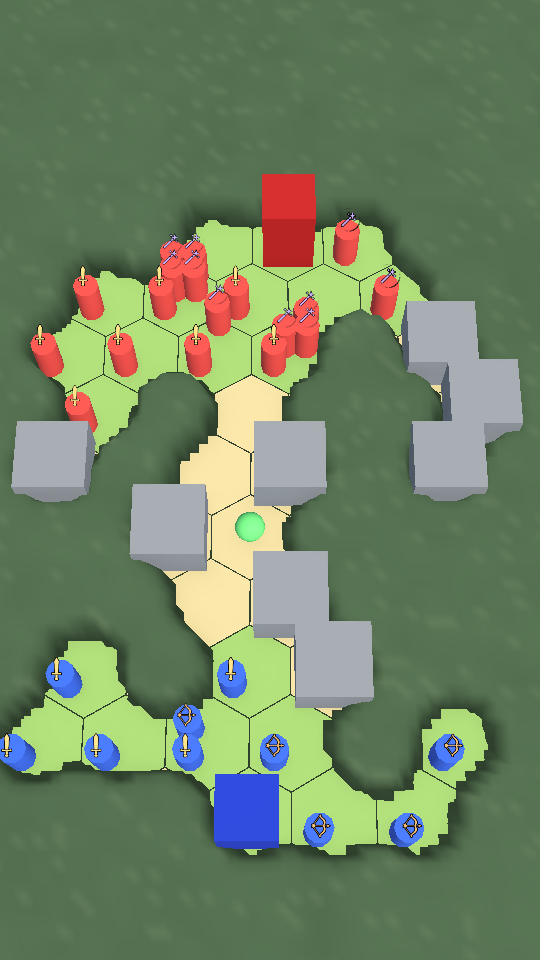
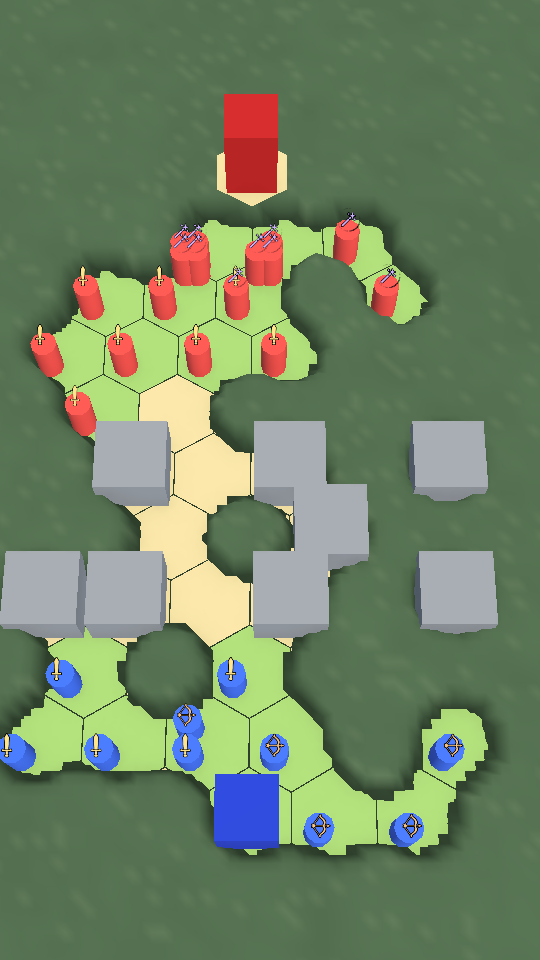
Bush Rush: драка боец-на-бойца (выпады по очереди, вздрагивание), красный герой за верхним краем на площадке; BALANCE §5

Changed region(s): [[0.0, 0.0938, 0.9778, 0.7812], [0.7407, 0.5625, 0.9185, 0.6875]]

diff --git a/unity/Assets/Warbands/Scripts/Runtime/Field3D.cs b/unity/Assets/Warbands/Scripts/Runtime/Field3D.cs
@@ -62,8 +62,9 @@ namespace Warbands
             public Vector3 HeadPos => Centroid + Vector3.up * (Unit != null && Unit.IsHero ? 1.5f : 1.0f);   // бойцы ×4 (14.09)
         }
         public sealed class FigJob { public Transform Fig; public Vector3 From; public List<Vector3> Path; public float Start, End; }
-        public sealed class Lunge { public Transform Fig; public Vector3 From, To; public float Start; }   // выпад к врагу и назад (0.44 с)
+        public sealed class Lunge { public Transform Fig, Target; public Vector3 From, To; public float Start; public bool Flinched; }   // выпад бойца к своему противнику и назад (0.44 с); на полпути противник вздрагивает
         readonly List<Lunge> lunges = new List<Lunge>();
+        readonly List<(Transform fig, Vector3 scale, float start)> flinches = new List<(Transform, Vector3, float)>();   // вздрагивание побитого бойца (0.24 с)
         readonly List<(Transform t, float born)> splats = new List<(Transform, float)>();   // кляксы на земле, тают за 8 с
         Mesh quadMesh; Texture2D splatTex;
         readonly Dictionary<Transform, Transform> icons = new Dictionary<Transform, Transform>();   // значок класса над бойцом
@@ -93,6 +94,13 @@ namespace Warbands
                 bushScale[i] = bushTarget[i] = 1f;   // уровень травы гекса (1 — заросло), из него строится мягкий ковёр (GrassCarpet)
                 var o = Prim("Obstacle", boxMesh, assets.obstacle, tilesRoot); o.localPosition = p + Vector3.up * 0.35f; o.localScale = new Vector3(0.9f, 0.7f, 0.9f); o.gameObject.SetActive(false); obstacles[i] = o;
                 var bn = Prim("Bonus", sphereMesh, assets.gold, tilesRoot); bn.localPosition = p + Vector3.up * 0.4f; bn.localScale = Vector3.one * 0.38f; bn.gameObject.SetActive(false); bonuses[i] = bn;
+            }
+            // площадка героя за краем поля (автор 14.09): песчаный гекс поверх травы под гексом героя вне сетки
+            for (int side = 0; side < 2; side++)
+            {
+                var hc = BushGrid.HeroCell(side); if (BushGrid.Inside(hc)) continue;
+                var pod = new GameObject("HeroPodium", typeof(MeshFilter), typeof(MeshRenderer)); pod.transform.SetParent(tilesRoot, false); pod.transform.localPosition = CellPos(hc) + Vector3.up * PodiumY;
+                pod.GetComponent<MeshFilter>().sharedMesh = hexMesh; var pm = pod.GetComponent<MeshRenderer>(); pm.sharedMaterial = assets.sand; pm.shadowCastingMode = UnityEngine.Rendering.ShadowCastingMode.Off; Tint(pm, assets.sand);
             }
             // трава (автор 14.09): мягкий сплошной ковёр с текстурой — сетка высот по уровням гексов, края плавные, свет запечён в вершины
             carpet = new GrassCarpet(root, assets.grassSoft, bushScale, reachMask);
@@ -164,7 +172,7 @@ namespace Warbands
                 SetBonus(c, b.Bushes.BonusAt(c), !bush);
                 Retint(i);
             }
-            foreach (var v in views) Destroy(v.Root.gameObject); views.Clear(); foreach (var kv in icons) Destroy(kv.Value.gameObject); icons.Clear(); foreach (var sp in splats) Destroy(sp.t.gameObject); splats.Clear(); lunges.Clear();
+            foreach (var v in views) Destroy(v.Root.gameObject); views.Clear(); foreach (var kv in icons) Destroy(kv.Value.gameObject); icons.Clear(); foreach (var sp in splats) Destroy(sp.t.gameObject); splats.Clear(); lunges.Clear(); flinches.Clear();
             foreach (var sd in b.Sides)
             {
                 foreach (var q in sd.Squads) views.Add(BuildUnit(q));
@@ -182,6 +190,8 @@ namespace Warbands
         }
         /// Слоты 2×2 в гексе (автор 14.09: бойцы ×4, до 4 в гексе); когда в гексе есть и враг, свои жмутся к своему краю (игрок — вниз), враг — к своему.
         public const float FigY = 0.35f;   // центр цилиндра высотой 0.64 над землёй
+        public const float PodiumY = GrassH * 1.15f + 0.02f;   // площадка героя вне сетки — поверх травы
+        static Vector3 HeroPos(Cell c) => CellPos(c) + Vector3.up * (BushGrid.Inside(c) ? 0.6f : PodiumY + 0.6f);
         static Vector3 SlotOffset(int slot, int side, bool mixed)
         {
             float x = (slot & 1) == 0 ? -0.2f : 0.2f, z = (slot & 2) == 0 ? -0.17f : 0.17f;
@@ -229,7 +239,7 @@ namespace Warbands
             {
                 bool active = i < n; if (v.Figs[i].gameObject.activeSelf != active) v.Figs[i].gameObject.SetActive(active); if (!active) continue;
                 bool running = false; foreach (var j in v.Jobs) if (j.Fig == v.Figs[i]) { running = true; break; }
-                if (!running) v.Figs[i].position = u.IsHero ? CellPos(u.Cell) + new Vector3(0f, 0.6f, 0f) : FigWorld(v, i);
+                if (!running) v.Figs[i].position = u.IsHero ? HeroPos(u.Cell) : FigWorld(v, i);
                 sum += v.Figs[i].position; on++;
             }
             v.Centroid = on > 0 ? sum / on : CellPos(u.Cell);
@@ -376,20 +386,26 @@ namespace Warbands
                     case EventType.BonusTaken: { var cells = BushGrid.Decode(e.Text); timed.Add((moveEnd, () => { foreach (var c in cells) SetBonus(c, BonusKind.None, false); })); break; }
                     case EventType.DamageApplied: case EventType.HealApplied:
                         {
-                            var tv = View(e.Target); var src = View(e.Actor); float at = moveEnd + 0.35f * k; bool heal = e.Type == EventType.HealApplied;
-                            timed.Add((at - 0.22f * k, () => { if (!heal && src != null && tv != null) LungeAt(src, tv); }));   // выпад к врагу
+                            // драка боец-на-бойца (автор 14.09: «не надо всех одновременно дёргать»): каждый боец атакующего отряда по очереди делает выпад
+                            // к ближайшему противнику, тот вздрагивает; HP, павшие и цифра урона — после последнего выпада
+                            var tv = View(e.Target); var src = View(e.Actor); bool heal = e.Type == EventType.HealApplied;
+                            int strikers = 0; if (!heal && src != null) foreach (var f in src.Figs) if (f.gameObject.activeSelf) strikers++;
+                            float step = strikers > 0 ? Mathf.Clamp(0.9f / strikers, 0.07f, 0.16f) * k : 0f; float start = moveEnd + 0.15f * k;
+                            float at = start + (strikers > 0 ? (strikers - 1) * step + 0.24f * k : 0.35f * k);
+                            if (strikers > 0) timed.Add((start, () => { if (src != null && tv != null) Strikes(src, tv, step / k); }));
                             timed.Add((at, () =>
                             {
                                 if (tv != null && tv.Unit != null)
                                 {
                                     var before = new List<Vector3>(); foreach (var f in tv.Figs) if (f.gameObject.activeSelf) before.Add(f.position);
-                                    tv.ShownHp = tv.Unit.Hp; tv.Punch = 1f; LayoutFigs(tv);
+                                    tv.ShownHp = tv.Unit.Hp; MatchFigs(tv); LayoutFigs(tv);
                                     int after = 0; foreach (var f in tv.Figs) if (f.gameObject.activeSelf) after++;
-                                    if (!heal && !tv.Unit.IsHero) for (int i = after; i < before.Count; i++) Splat(before[i], tv.Unit.Side);   // павшие — кляксы
+                                    if (!heal && !tv.Unit.IsHero) for (int i = after; i < before.Count; i++) Splat(before[i], tv.Unit.Side);   // павшие — кляксы там, где стояли побитые
+                                    if (tv.Unit.IsHero && !heal) Flinch(tv.Figs[0]);
                                 }
-                                if (src != null) src.Punch = 0.6f; Hit?.Invoke(e);
+                                Hit?.Invoke(e);
                             }));
-                            t = Mathf.Max(t, at + 0.5f * k);
+                            t = Mathf.Max(t, at + 0.35f * k);
                             break;
                         }
                     case EventType.SquadDefeated: { var tv = View(e.Target); float at = moveEnd + 0.7f * k; timed.Add((at, () => { if (tv != null) { tv.ShownHp = 0; LayoutFigs(tv); tv.Root.gameObject.SetActive(false); } })); break; }
@@ -401,17 +417,42 @@ namespace Warbands
             timed.Add((t + 0.05f, () => { var bb = runner.Battle; if (bb != null) { SetPending(PendingRegrow(bb)); foreach (var v in views) if (v.Unit != null && v.Unit.Alive) v.ShownHp = v.Unit.Hp; } }));
         }
         /// Выпад: каждый боец атакующего, у кого рядом (≤ 1.2) есть боец цели, дёргается к ближайшему и обратно; толпы смешиваются.
-        void LungeAt(UnitView src, UnitView tv)
+        /// Выпады по очереди: боец k атакующего отряда через k·step секунд делает выпад к ближайшему бойцу цели (ближники — почти вплотную,
+        /// стрелки издалека — короткий «толчок» в сторону цели); ближние к врагу бьют первыми.
+        void Strikes(UnitView src, UnitView tv, float step)
         {
-            var targets = new List<Vector3>(); foreach (var f in tv.Figs) if (f.gameObject.activeSelf) targets.Add(f.position);
+            var targets = new List<Transform>(); foreach (var f in tv.Figs) if (f.gameObject.activeSelf) targets.Add(f);
             if (targets.Count == 0) return;
+            var order = new List<(Transform f, Transform t, float d)>();
             foreach (var f in src.Figs)
             {
-                if (!f.gameObject.activeSelf) continue; Vector3 best = targets[0]; float bd = float.MaxValue;
-                foreach (var p in targets) { float d = (p - f.position).sqrMagnitude; if (d < bd) { bd = d; best = p; } }
-                if (bd > 1.44f) continue;
-                lunges.Add(new Lunge { Fig = f, From = f.position, To = Vector3.Lerp(f.position, best, 0.7f), Start = Time.unscaledTime });
+                if (!f.gameObject.activeSelf) continue; Transform best = targets[0]; float bd = float.MaxValue;
+                foreach (var p in targets) { float d = (p.position - f.position).sqrMagnitude; if (d < bd) { bd = d; best = p; } }
+                order.Add((f, best, bd));
             }
+            order.Sort((a, b) => a.d.CompareTo(b.d));
+            float now = Time.unscaledTime;
+            for (int k = 0; k < order.Count; k++)
+            {
+                var (f, tg, d) = order[k]; var dir = tg.position - f.position; dir.y = 0f; float len = dir.magnitude;
+                var to = len <= 1.2f ? Vector3.Lerp(f.position, new Vector3(tg.position.x, f.position.y, tg.position.z), 0.7f) : f.position + dir / Mathf.Max(len, 1e-3f) * 0.22f;
+                lunges.Add(new Lunge { Fig = f, Target = tg, From = f.position, To = to, Start = now + k * step });
+            }
+        }
+        void Flinch(Transform fig) { foreach (var fl in flinches) if (fl.fig == fig) return; flinches.Add((fig, fig.localScale, Time.unscaledTime)); }
+        /// Перед раскладкой после урона: Figs[i] ↔ Fighters[i] по ближайшей позиции, чтобы павшими (лишними) остались фигурки, стоявшие там, где бойцов не стало.
+        void MatchFigs(UnitView v)
+        {
+            var u = v.Unit; if (u == null || u.IsHero || u.Fighters == null) return;
+            var free = new List<Transform>(); foreach (var f in v.Figs) if (f.gameObject.activeSelf) free.Add(f); var inactive = new List<Transform>(); foreach (var f in v.Figs) if (!f.gameObject.activeSelf) inactive.Add(f);
+            var ordered = new List<Transform>();
+            for (int i = 0; i < u.Fighters.Count && free.Count > 0; i++)
+            {
+                var p = CellPos(u.Fighters[i]); Transform pick = null; float bd = float.MaxValue;
+                foreach (var f in free) { float d = (f.position - p).sqrMagnitude; if (d < bd) { bd = d; pick = f; } }
+                free.Remove(pick); ordered.Add(pick);
+            }
+            ordered.AddRange(free); ordered.AddRange(inactive); v.Figs.Clear(); v.Figs.AddRange(ordered);
         }
         /// Попадание/лечение показано (для всплывающих чисел в HUD).
         public event System.Action<CombatEvent> Hit;
@@ -451,9 +492,16 @@ namespace Warbands
             foreach (var bn in bonuses) if (bn.gameObject.activeSelf) bn.localRotation = Quaternion.Euler(0f, now * 90f, 0f);
             for (int i = lunges.Count - 1; i >= 0; i--)
             {
-                var l = lunges[i]; float u = (now - l.Start) / 0.44f;
+                var l = lunges[i]; float u = (now - l.Start) / 0.44f; if (u < 0f) continue;   // ещё ждёт своей очереди
                 if (u >= 1f) { l.Fig.position = l.From; lunges.RemoveAt(i); continue; }
                 float k2 = Mathf.Sin(u * Mathf.PI); l.Fig.position = Vector3.Lerp(l.From, l.To, k2) + Vector3.up * 0.06f * k2;
+                if (!l.Flinched && u >= 0.5f) { l.Flinched = true; if (l.Target != null && l.Target.gameObject.activeSelf) Flinch(l.Target); }
+            }
+            for (int i = flinches.Count - 1; i >= 0; i--)
+            {
+                var fl = flinches[i]; float u = (now - fl.start) / 0.24f;
+                if (u >= 1f || fl.fig == null) { if (fl.fig != null) fl.fig.localScale = fl.scale; flinches.RemoveAt(i); continue; }
+                float s2 = Mathf.Sin(u * Mathf.PI); fl.fig.localScale = new Vector3(fl.scale.x * (1f + 0.35f * s2), fl.scale.y * (1f - 0.22f * s2), fl.scale.z * (1f + 0.35f * s2));
             }
             for (int i = splats.Count - 1; i >= 0; i--)
             {

diff --git a/unity/Assets/Warbands/Scripts/Sim/BushField.cs b/unity/Assets/Warbands/Scripts/Sim/BushField.cs
@@ -74,8 +74,9 @@ namespace Warbands.Sim
             return new Cell(col, y);
         }
 
-        /// Гекс героя (Bush Rush, автор 14.09): по центру своего края — игрок снизу (2, Rows-1), враг сверху (3, 0); нечётная строка сдвинута на полгекса, так что оба у середины поля.
-        public static Cell HeroCell(int side) => side == 0 ? new Cell(Cols / 2 - 1, Rows - 1) : new Cell(Cols / 2, 0);
+        /// Гекс героя (Bush Rush, автор 14.09): игрок снизу (2, Rows-1) на поле; враг — за верхним краем, на «площадке» (2, -1) (автор 14.09: «переставь красного героя сюда»).
+        /// Гекс вне сетки: соседство/дистанции считаются как обычно (кубовые координаты), бойцы туда не ступают (Passable требует Inside), бьют с (2,0) и (3,0).
+        public static Cell HeroCell(int side) => side == 0 ? new Cell(Cols / 2 - 1, Rows - 1) : new Cell(Cols / 2 - 1, -1);
 
         public static string Encode(IList<Cell> cells) { if (cells == null) return ""; var sb = new System.Text.StringBuilder(); for (int i = 0; i < cells.Count; i++) { if (i > 0) sb.Append(';'); sb.Append(cells[i].X).Append(',').Append(cells[i].Y); } return sb.ToString(); }
         public static List<Cell> Decode(string s)

diff --git a/unity/Assets/Warbands/Scripts/Sim/BushLogic.cs b/unity/Assets/Warbands/Scripts/Sim/BushLogic.cs
@@ -589,7 +589,7 @@ namespace Warbands.Sim
         {
             var b = s.Bushes; if (b == null) return;
             int nObs = s.Cfg.bushObstacles, nBon = s.Cfg.bushBonuses;
-            var units = new List<Cell>(); foreach (var sd in s.Sides) { foreach (var q in sd.Squads) if (q.Alive) { units.Add(q.Cell); if (s.Cfg.rushMode && q.Fighters != null) foreach (var f in q.Fighters) if (!units.Contains(f)) units.Add(f); } if (s.Cfg.rushMode && sd.Hero != null) units.Add(sd.Hero.Cell); }   // Bush Rush: лагерь бойцов тоже без препятствий
+            var units = new List<Cell>(); foreach (var sd in s.Sides) { foreach (var q in sd.Squads) if (q.Alive) { units.Add(q.Cell); if (s.Cfg.rushMode && q.Fighters != null) foreach (var f in q.Fighters) if (!units.Contains(f)) units.Add(f); } if (s.Cfg.rushMode && sd.Hero != null && BushGrid.Inside(sd.Hero.Cell)) units.Add(sd.Hero.Cell); }   // Bush Rush: лагерь бойцов тоже без препятствий; герой за краем в связность не входит
             for (int attempt = 0; attempt < 40 && nObs > 0; attempt++)
             {
                 var obs = new HashSet<Cell>();

diff --git a/unity/Assets/Warbands/Scripts/Tests/RushTests.cs b/unity/Assets/Warbands/Scripts/Tests/RushTests.cs
@@ -18,7 +18,8 @@ namespace Warbands.Tests
         {
             var s = New();
             Assert.AreEqual(BushGrid.HeroCell(0), s.Sides[0].Hero.Cell); Assert.AreEqual(BushGrid.HeroCell(1), s.Sides[1].Hero.Cell);
-            Assert.AreEqual(BushGrid.Rows - 1, s.Sides[0].Hero.Cell.Y); Assert.AreEqual(0, s.Sides[1].Hero.Cell.Y);
+            Assert.AreEqual(BushGrid.Rows - 1, s.Sides[0].Hero.Cell.Y); Assert.AreEqual(-1, s.Sides[1].Hero.Cell.Y, "красный герой за верхним краем (автор 14.09)");
+            Assert.IsTrue(BushGrid.Adjacent(s.Sides[1].Hero.Cell, new Cell(2, 0)) && BushGrid.Adjacent(s.Sides[1].Hero.Cell, new Cell(3, 0)), "к герою за краем подходят с (2,0) и (3,0)");
             foreach (var sd in s.Sides) foreach (var q in sd.Squads)
             {
                 Assert.AreEqual(q.Count, q.Fighters.Count, "по бойцу на живого: " + q.Name);

diff --git a/GDD.md b/GDD.md
@@ -4,7 +4,7 @@
 
 ## Поле
 - 6×10 гексов (pointy-top, нечётные строки сдвинуты вправо на полгекса), кусты везде, кроме гексов под отрядами и героями. Препятствия (серые блоки, не пройти и не стереть) и бонусы (×2 бойцов, +100 HP; спрятаны под травой, видны на расчищенном) — как в Warbands: 5 препятствий, 5 бонусов на старте, до 6, перегенерация раз в 2 хода.
-- **Герои на поле**: игрок — гекс (2, 9) внизу по центру, враг — (3, 0) вверху по центру (камера круче — герой врага под верхней полоской HUD, автор 14.09). Герой не ходит, занимает гекс (стена для всех), у него HP из карты (Aldren 600, Varka 440, Ilyra 380, Morthane 320).
+- **Герои на поле**: игрок — гекс (2, 9) внизу по центру, враг — (2, −1) за верхним краем на песчаной площадке поверх травы (автор 14.09: «переставь сюда»; бойцы бьют его с (2,0) и (3,0)) (камера круче — герой врага под верхней полоской HUD, автор 14.09). Герой не ходит, занимает гекс (стена для всех), у него HP из карты (Aldren 600, Varka 440, Ilyra 380, Morthane 320).
 - Отряды: игрок — фронт строка 7, тыл 8; враг — фронт 2, тыл 1. Между фронтами четыре строки кустов.
 
 ## Ход
@@ -14,7 +14,7 @@
 - Ближник останавливается у первого встречного врага (боец или герой) и бьёт его; герой в приоритете. Дальник бежит, пока кто-то из врагов не окажется в рейндже, и стреляет — в героя, если достаёт, иначе в ближайшего. Урон отряда делится по бойцам: бьющие N из живых дают N/живых от урона отряда, по каждой цели суммируется одним ударом. Cabal бьёт всех в рейндже каждого бойца. У каждого бойца своё HP (сумма = HP отряда, полоски бойцов не показываем): урон снимается с бойцов, ближайших к атакующему, боец с нулём падает (клякса на земле); лечение — раненым, остаток — новыми бойцами рядом. Бонусы подбирают все, кто пробежал по гексу бонуса. Вражеские бойцы не преграда — ближники врезаются в толпу и дерутся вперемешку в одном гексе (автор 14.09, реф Castle Raid); стена — только гекс героя.
 - Отхода после удара нет — давим вперёд.
 - Скорости: ближники 5, Veil Knives 6, дальники 3 (предложение под поле 6×10; в Warbands 7/8/4). Рейнджи: Arbalists 4, остальные дальники 3, ближники — соседний гекс.
-- Ульта героя — свободное действие в ход своего отряда, цена 40 душ (Мортейн 60; 14.09: бойцов ×2 → душ ×2), души капают за потерянных бойцов.
+- Ульта героя — свободное действие в ход своего отряда, цена 20 душ (Мортейн 30), души капают за потерянных бойцов.
 
 ## Конец боя
 - **Только смерть героя** (гибель всех отрядов бой не заканчивает — герой стоит один). Лимит 30 раундов — счёт по HP.

diff --git a/ROADMAP.md b/ROADMAP.md
@@ -27,4 +27,5 @@
 - 14.09: прогон лавины — BALANCE §3 (13–86, лимитов 0 %), как §2.
 - 14.09: **откат лавины** (автор: «нет, юнитов разнеси на несколько гексов, размер ×4, до 4 на гексе»): ёмкость гекса 4, бойцы ×4 (0.34×0.64, слоты 2×2, при смешении с врагом — к своему краю гекса), составы обратно к 10×50 … 6×67, ульта 20/30. Отряд крупнее 4 на старте стоит лагерем на нескольких гексах вокруг дома (кусты под лагерем расчищены, препятствия его обходят); новые бойцы (×2, лечение) встают, где есть место. Фигурки при беге сопоставлены путям по ближайшему старту — без скачков. Прогон — BALANCE §4.
 - 14.09: прогон cap 4 — BALANCE §4 (20–86, лимитов 0 %). Попутно: в rush-режиме дорога бота (`PathThroughBushes`/`CanStand`) больше не считает вражеских бойцов стеной — иначе лагерь вокруг героя закрывал все подходы и бот не расчищал.
+- 14.09: **драка боец-на-бойца** (автор: «атаку переделай юнита на юнита, не надо всех одновременно дёргать»): бойцы атакующего отряда делают выпады по очереди (0.07–0.16 с между, ближние к врагу первыми) к своему ближайшему противнику, тот вздрагивает; стрелки издалека — короткий толчок к цели; HP, павшие и цифра урона — после последнего выпада; павшими остаются фигурки там, где бойцов не стало (`MatchFigs`). **Красный герой за верхним краем** (автор: «переставь сюда»): гекс (2,−1) вне сетки на песчаной площадке поверх травы, бойцы бьют его с (2,0)/(3,0); связность препятствий его не учитывает. Прогон — BALANCE §5.
 

diff --git a/BALANCE.md b/BALANCE.md
@@ -20,3 +20,7 @@
 
 20 сидов, бот Normal. Составы как в Warbands (10×50 … 6×67), ёмкость гекса 4, лагерь на старте, ульта 20/30. Диапазон **20–86** (Sustained Fire 86, Storm Wall 69, Magic Eaters 68, Arcane Siege 68, Bone Tide 64, Execution Chain 54, Rage Link 48, Lasting Light 46, Plague March 31, Radiant Line 26, Grave Cycle 20, Thunder Volley 20). Лимитов **0 %**, медиана 7 раундов, 35 действий. Ульт у Bone Tide до 11 за бой (некромант при 30 душах на дешёвой нежити) — стоит посмотреть отдельно. Картина та же, что в §2–3: разброс задаёт HP героя (В3).
 
+## 5. Красный герой за краем + драка боец-на-бойца (14.09) — `balance/matrix-12-presets-rush-v5-hero-edge.txt`
+
+20 сидов, бот Normal, правила §4, вражеский герой на (2,−1). Диапазон **17–85** (Sustained Fire 85, Storm Wall 70, Arcane Siege 70, Magic Eaters 68, Bone Tide 68, Execution Chain 55, Rage Link 49, Lasting Light 43, Plague March 29, Radiant Line 28, Thunder Volley 19, Grave Cycle 17). Лимитов **0 %**, медиана 7 раундов, 36 действий — как §4, лишний ряд до героя врага картину не сдвинул. Bone Tide до 14 ульт за бой (см. §4).
+
